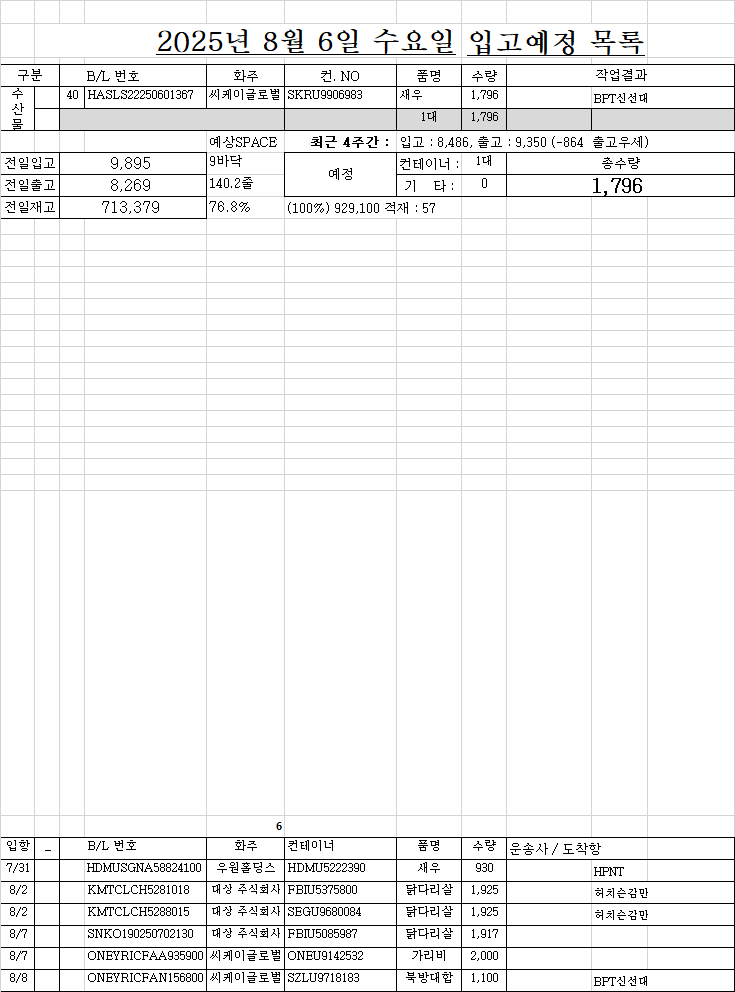
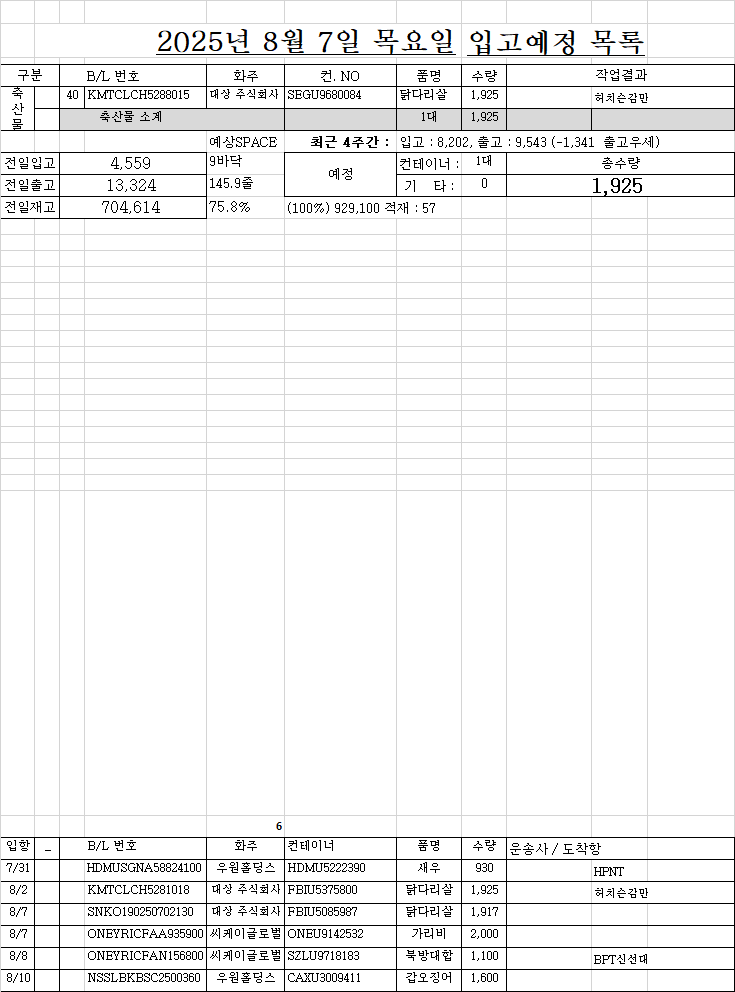
dfsfsdfsd

diff --git a/index.html b/index.html
@@ -475,7 +475,8 @@
 <div id="기타전체_관련자료none" class="d-none 모든검색">
   <div class="카테고리모음"><!--캔버스바디에 들어간다 .개별카테고리는 제한없음. .개별카테고리 안에는 div(div안에 h6을 넣어야됨) 1~3개 제한(각각 세로로 나열됨)-->
     <div class="개별카테고리" id="기타전체_기타"><!--id가 따지는데 _이후를 따옴. _ 없으면 전체 따옴 -->
-      <h6 class="canvas_div" title='_기타20250313_교육5종'>2023.03.13 : 상시근로자 사업장 1/4분기 산업안전보건교육 및 법정교육 시행의 건</h6>
+      <h6 class="canvas_div" title="_기타_대표자변경" >대표자 변경</h6>
+      <h6 class="canvas_div" title="_기타20250805_식물검역시행장신규신청" >수입식물류검역장소 신규신청</h6>
     </div>
     <div class="개별카테고리" id="기타전체_기타2"><!--id가 따지는데 _이후를 따옴. _ 없으면 전체 따옴 -->
       <h6 class="canvas_div" title=''>title를 불러옴, 이곳은 자유롭게 작성 (타이틀 또는 검색어)</h6>
@@ -483,11 +484,86 @@
       <h6 class="canvas_div" title=''>.개별카테고리 > div 3개(3칸으로 맞춤, 1칸써도 됨) 안에 h6(title 불러옴)</h6>
     </div>
     <div class="개별카테고리" id="기타전체_기타3"><!--id가 따지는데 _이후를 따옴. _ 없으면 전체 따옴 -->
-
+      <h6 class="canvas_div" title='_기타20250313_교육5종'>2023.03.13 : 상시근로자 사업장 1/4분기 산업안전보건교육 및 법정교육 시행의 건</h6>
     </div>
   </div>
 
   <!-- 카테고리 끝났으면 아래는 .카테고리모음 > .개별카테고리 > h6의 title 을 id로 가진 정보(불러올 정보) -->
+  <section id="_기타_대표자변경">
+    <div id="스크립트로ul추가"></div>
+    <div>
+      <h4>2021년9월29일부터 대표자변경</h4>
+      <h5>세관</h5>
+      <h6>보세구역 운영자 법인 등기사항 변경 통보서 (명판, 직인), 법인등기부등본, </h6>
+      <h6>특허장사본, 자율관리사본, 사업자등록증(참고용)</h6>
+      <h6>위임장과 인감증명서는 달라고 안했음.</h6>
+      <h6>2021.9.29. 방문신청하였고 10월4일 대체휴일이라서 </h6>
+      <h6>30일날 받으러오라고 해서받으러갔음.</h6>
+<br>
+      <h5>구청</h5>
+      <h6>축산물보관업(별관3층, 경제진흥과, 220-4471) 법인등기부등본, 위임장(당일본),  </h6>
+      <h6>인감증명서, 허가증 원본, 신청서(직인,명판). (직인,명판 지참 혹시모르니). 5000원, </h6>
+      <h6>3일후 연락오면 가지러 오라고함. 우편으로 받으려면 신청을 해야한다고 함.</h6>
+      <h6>식품보존업4417(환경위생과), 서류는 위와 동일, 수수료는 없음. </h6>
+      <h6>민원실에서 도장받아서 갖다주고 조금기다리니 등록증 새로 발급해줌. </h6>
+<br>
+      <h5>식물 20250806 회원가입 다시함 ycy2000 dongil3368!</h5>
+      <h6>농림축산검역본부 영남지역본부 전자민원 : 아이디 ycy20001, 비번 !good1974, </h6>
+      <h6>개인회원 (법인으로 신청하면 마지막에 에러난다)</h6>
+      <h6>20210930 전자민원으로 신청 : 첨부파일 : 법인등기부등본, 사업자등록증</h6>
+      <h6>김태형주무관 010-9515-1394,600-6227, 전산신청했더니 틀린부분 자세히 가르쳐주었다. </h6>
+      <h6>검역장소명이 동일냉장(주)로 전산신청서상에 자동으로 떠서 보냈는데</h6>
+      <h6>지정서에 동일냉장보세창고로 되어있어서 일치하지 않으면 </h6>
+      <h6>나중에 입간판 다 바꿔야하는 경우가 생긴다고 지적해주고 </h6>
+      <h6>내아이디 비번 가르쳐주고 직접 수정해주었다</h6>
+      <h6>문자로 신청, 접수, 승인 순서대로 처리결과가 문자로 수신됨.</h6>
+      <h6>직접 받으러감. (중앙동2번출구, 롯데백화점 근처)</h6>
+<br>
+      <h5>수산물품질관리원</h5>
+      <h6>생산.가공시설 등록 변경신청서. 법인등기부등본. </h6>
+      <h6>명판.직인.주민등록번호 풀.영문 이름.</h6>
+      <h6>우편으로 받았다.</h6>
+<br>
+      <h5>수입식품등보관업</h5>
+      <h6>아이디(기업은 등록번호) : 20160004247, </h6>
+      <h6>비번: !good1974, 로그인 - 우리회사안전관리 - 민원</h6>
+      <h6>영업등록사항 변경 : 영업등록증, 변경사항을 확인할수 있는 서류, 기타, 시설배치도</h6>
+      <h6>전산으로 변경이 잘 안되서 문의했더니 서류첨부까지 되면 </h6>
+      <h6>서류첨부해서 어떻게든 신청만하면 확인하고 연락하면서 신청받겠다고 함. (이렇게 했다)</h6>
+      <h6>안되면 팩스로도 진행이 가능하다고 함. 602-6201.</h6>
+      <h6>직원이 신청시 위임장 있어야 된다고 fax : 0502 604 7960, tel:602-6236</h6>
+      <h6>2022.05.23영업등록증 영문발행 되지 않는다고 함.(602-6236)</h6>
+      <h6>식품안전나라에 로그인해서 출력해서 쓰면된다고 함. 기존등록증은</h6>
+<br>
+      <h5>검역시행장</h5>
+      <h6>우편20211005.부산광역시 중구 충장대로6 한진 R&D센터2층 </h6>
+      <h6>농림축산검역본부 영남지역본부 축산물위생검역과 검역시행장 담당자앞</h6>
+      <h6>신청서,사업자등록증,지정서원본 (+법인등기부등본,축산물보관업허가증 사본)</h6>
+      <h6>우편으로 받았다.</h6>
+      <h6>식물,수품원 건물과 따로, 세관골목</h6>
+      <br><br><br><br><br><br><br><br><br><br>
+
+    </div>  
+  </section>
+
+  <section id="_기타20250805_식물검역시행장신규신청">
+    <div id="스크립트로ul추가"></div>
+    <h4 id="move3"  class="목차">3. 2025.08.05 수입식물류검역장소 신규 신청</h4>
+    <h5>A. 식물검역 온라인 민원시스템	(검색)</h5>
+    <img src="portal/images/문서연결_메모/식물검역사이트.png" alt="이미지없음">
+    <h5 class="li_들작" >※ 회원가입(본인인증) : 개인적으로 가입, 관할기관에 본부, 가입유형에 기업	</h5>
+    <h6 style="color:blueviolet">※ - 보세장치장부호가 조회되지 않는 경우에는 신청하시려는 담당기관에 보세장치장부호를 먼저 등록하신 후 신규 신청하시기 바랍니다.</h6>   
+    <h6>※ - 예시 화면의 보세장치장부호는 잘못된 정보이다. 03011597, 동일냉장(주)</h6>    
+    <h6>※ - '검역장소명'이 특허장의 '보세구역명칭'이라면 '동일냉장(주) 보세창고'라고 해야한다.</h6>    
+    <h6>★ 20250805신청후 다음날 현장점검시 잘못된 신청정보 바로잡으려고 하였고, 해당건 반려후 신규신청으로 다시 신청하였다.</h6>   
+    <img src="portal/images/문서연결_메모/식물검역장소신청내역.png" alt="이미지없음">
+    <h5 class="li_들작">※ 이동검사대, 조명, 온도보고, 창고본다.		</h5>
+    <h5 class="li_들작">※ 신청처리는 7일이지만 방문검사 협의(빠르면 다음날 올수 있음), 방문검사시 문제없으면 다음날에라도 입고가능		</h5>
+    <h5 class="li_들작">※ 2025.08.05 051)600-6227	</h5>   
+    <br><br><br><br><br><br><br><br><br><br>
+
+  </section>
+
   <section id="_기타20250313_교육5종">
     <div id="스크립트로ul추가"></div>
     <h4 id="move1" class="목차">&#9634; 2023.03.13 : 상시근로자 사업장 1/4분기 산업안전보건교육 및 법정교육 시행의 건</h4>
@@ -1786,21 +1862,15 @@
     <br>
     <img src="portal/images/문서연결_세관및유니패스/00_보세화물_01_보세화물_04_수산생물검사.png" alt="이미지없음">
       <br>
-    <h4 id="move3"  class="목차">3. 2025.08.05 수입식물류검역장소 신규 신청</h4>
-    <h5 class="li">A. 식물검역 온라인 민원시스템	</h5>
-    <h5 class="li_들작">※ 회원가입 : 개인적으로 가입, 관할기관에 본부, 가입유형에 기업	</h5>
-    <h5 class="li_들작">※ 이동검사대, 조명, 온도보고, 창고본다.		</h5>
-    <h5 class="li_들작">※ 신청처리는 7일이지만 방문검사 협의(빠르면 다음날 올수 있음), 방문검사시 문제없으면 다음날에라도 입고가능		</h5>
-    <h5 class="li_들작">※ 2025.08.05 051)600-6227	</h5>
+
     <br><br><br><br>
   </section>
 
-  
-  <div id="_01_보세화물_02_식물">
-    20250611 씨케이 염장와사비줄기 <br>
+  <section id="_01_보세화물_02_식물"><div id="스크립트로ul추가"></div>
+    <div>20250611 씨케이 염장와사비줄기 <br>
     명지우과장 : hs코드가 해당이 없었다... 한번도 식물검역신청 한 경우가 없다... <br>
-    <span style="font-weight: bold;">이것은 식물검역대상이 아닌것으로</span>
-  </div>
+    <span style="font-weight: bold;">이것은 식물검역대상이 아닌것으로</span></div>
+  </section>
 
   <section id="_01_보세화물_03_BL과DO등"><div id="스크립트로ul추가"></div>
     <h4 id="move1"  class="목차">1. 화물관리번호, 해상화물의 운송계약, 선사와 M/BL, 포딩과 H/BL, B/L 보는법</h4>

diff --git a/list.html b/list.html
@@ -125,35 +125,35 @@
 </div>
 <!-- ★★★★★★ 따로 빼 놔야한다. 복붙하면 첫칸 비어도 되는데, 여기서는 첫칸비우면 당겨진다. -->
 <!-- ★ 엑셀범위를 브라우저 textarea에 붙여넣으면 첫셀 비어도 제대로 되는데... HTML에 붙여놓은 자료는 처음셀이 비어있으면 당겨짐 -->
-<div class="d-none" id="원본text_리스트1부터w요약열까지">작성	면허	B/LNO.	화주	컨테이너NO.	품명	수량	반입NO.	입항일	구분	도착일	도착시간	구분	운.도VBA	08/05 화 16:33	화찰BL	화찰 선명	화물관리번호	화찰수량	화찰중량	화찰입항	리스트시트기준열	
-1	○	HASLS22250601367	씨케이글로벌	SKRU9906983	새우	1,796 	BPT신선대	8/4	1				BPT신선대		HASLS22250601367	HEUNG-A HOCHIMINH	25HASL1408I-2071-	1,796 	21,552.00 	2025.08.04	08/05 화 16:33	
+<div class="d-none" id="원본text_리스트1부터w요약열까지">작성	면허	B/LNO.	화주	컨테이너NO.	품명	수량	반입NO.	입항일	구분	도착일	도착시간	구분	운.도VBA	08/06 수 16:30	화찰BL	화찰 선명	화물관리번호	화찰수량	화찰중량	화찰입항	리스트시트기준열	
+1		KMTCLCH5288015	대상 주식회사	SEGU9680084	닭다리살	1,925 	허치슨감만	8/2	2	8/6	15:35		허치슨감만			KMTC JAKARTA					08/06 수 16:30	
 2		HDMUSGNA58824100	우원홀딩스	HDMU5222390	새우	930 	HPNT	7/31	1			20 	HPNT			HMM MANILA					조회정보	
 		KMTCLCH5281018	대상 주식회사	FBIU5375800	닭다리살	1,925 	허치슨감만	8/2	2				허치슨감만			KMTC JAKARTA					적재	57 
-		KMTCLCH5288015	대상 주식회사	SEGU9680084	닭다리살	1,925 	허치슨감만	8/2	2				허치슨감만			KMTC JAKARTA					4,617 	3줄
-		SNKO190250702130	대상 주식회사	FBIU5085987	닭다리살	1,917 		8/7	2												6,156 	4줄
-		ONEYRICFAA935900	씨케이글로벌	ONEU9142532	가리비	2,000 		8/7	1												7,695 	5줄
-		ONEYRICFAN156800	씨케이글로벌	SZLU9718183	북방대합	1,100 	BPT신선대	8/8	1				BPT신선대			KOTA GAYA					9,234 	6줄
-		NSSLBKBSC2500360	우원홀딩스	CAXU3009411	갑오징어	1,600 		8/10	1			20 				SKY CHALLENGE						
-		MEDUFJ489238	씨케이글로벌	SZLU9466986	주꾸미등	1,968 		8/11	1							MSC COLETTE III					출고/입고 4주간	
-		MEDUFJ489303	씨케이글로벌	SZLU9466986	북방대합	216 		8/11	1							MSC COLETTE III					1일 7/5	5일줄
-		ONEYSCLF17542500	씨케이글로벌	SZLU9714486	홍합살	2,400 		8/11	1							LIMA EXPRESS					9,350 	30.4
-		HLCULI3250649511	삼영수산	HLBU9158748	오징어	1,100 	 ._	8/13	1				 ._			VANTAGE					8,486 	27.6
-		HLCULI3250649511	삼영수산	UACU4769686	오징어	1,100 		8/13	1							VANTAGE					내국제외	
-		HLCULI3250649522	삼영수산	CAIU5653268	오징어	1,100 		8/14	1							VANTAGE					구분	대수
-		HLCULI3250649522	삼영수산	HLBU9353298	오징어	1,100 		8/14	1							VANTAGE					수산	18
-		HLCULI3250649522	삼영수산	TCLU1122721	오징어	1,100 		8/14	1							VANTAGE					축산	7
-		HLCULI3250649544	삼영수산	HLBU9066770	오징어	1,150 		8/15	1							VANTAGE					합계	25
-		HLCULI3250649544	삼영수산	HLBU9756586	오징어	1,150 		8/15	1							VANTAGE						
-		HLCULI3250649544	삼영수산	HLBU9472677	오징어	1,150 		8/15	1							VANTAGE					화주별 요약	
-		MEDUP3970274	세현	CRSU6022718	오징어	1,150 		8/19	1							MSC FAIRFIELD					화주	대수
-		MEDUP3970282	세현	TTNU8097699	오징어	1,150 		8/19	1							MSC FAIRFIELD					삼영수산	8
+		SNKO190250702130	대상 주식회사	FBIU5085987	닭다리살	1,917 		8/7	2												4,617 	3줄
+		ONEYRICFAA935900	씨케이글로벌	ONEU9142532	가리비	2,000 		8/7	1												6,156 	4줄
+		ONEYRICFAN156800	씨케이글로벌	SZLU9718183	북방대합	1,100 	BPT신선대	8/8	1				BPT신선대			KOTA GAYA					7,695 	5줄
+		NSSLBKBSC2500360	우원홀딩스	CAXU3009411	갑오징어	1,600 		8/10	1			20 				SKY CHALLENGE					9,234 	6줄
+		MEDUFJ489238	씨케이글로벌	SZLU9466986	주꾸미등	1,968 		8/11	1							MSC COLETTE III						
+		MEDUFJ489303	씨케이글로벌	SZLU9466986	북방대합	216 		8/11	1							MSC COLETTE III					출고/입고 4주간	
+		ONEYSCLF17542500	씨케이글로벌	SZLU9714486	홍합살	2,400 		8/11	1							LIMA EXPRESS					1일 7/5	5일줄
+		HLCULI3250649511	삼영수산	HLBU9158748	오징어	1,100 	 ._	8/13	1				 ._			VANTAGE					9,350 	30.4
+		HLCULI3250649511	삼영수산	UACU4769686	오징어	1,100 		8/13	1							VANTAGE					8,486 	27.6
+		HLCULI3250649522	삼영수산	CAIU5653268	오징어	1,100 		8/14	1							VANTAGE					내국제외	
+		HLCULI3250649522	삼영수산	HLBU9353298	오징어	1,100 		8/14	1							VANTAGE					구분	대수
+		HLCULI3250649522	삼영수산	TCLU1122721	오징어	1,100 		8/14	1							VANTAGE					수산	18
+		HLCULI3250649544	삼영수산	HLBU9066770	오징어	1,150 		8/15	1							VANTAGE					축산	8
+		HLCULI3250649544	삼영수산	HLBU9756586	오징어	1,150 		8/15	1							VANTAGE					합계	26
+		HLCULI3250649544	삼영수산	HLBU9472677	오징어	1,150 		8/15	1							VANTAGE						
+		MEDUP3970274	세현	CRSU6022718	오징어	1,150 		8/19	1							MSC FAIRFIELD					화주별 요약	
+		MEDUP3970282	세현	TTNU8097699	오징어	1,150 		8/19	1							MSC FAIRFIELD					화주	대수
+		ACD0837113	씨케이글로벌	CGMU5228399	홍합	2,000 		8/25	1												삼영수산	8
 		SAO500572503	대성무역	FBIU5241380	닭장각	1,568 		8/28	2												씨케이글로벌	6
+		MAEUJBS277649	대성무역	MNBU4213585	닭다리살	1,958 		9/6	2												대성무역	4
 		ONEYSAOF33796804	대성무역	ONEU9357700	닭장각	1,568 		9/11	2												대상 주식회사	3
-		ONEYSAOF33796812	대성무역	TLLU7007390	닭다리살	1,960 		9/11	2												대성무역	3
-		HDMUSAOA05612905	참트레이딩	HDMU5576006	닭장각	1,568 		9/11	2							NYK RUMINA					우원홀딩스	2
-																					세현	2
+		ONEYSAOF33796812	대성무역	TLLU7007390	닭다리살	1,960 		9/11	2												우원홀딩스	2
+		HDMUSAOA05612905	참트레이딩	HDMU5576006	닭장각	1,568 		9/11	2							NYK RUMINA					세현	2
 																					참트레이딩	1
-																					합계	25
+																					합계	26
 </div>
 <div class="d-none" id="원본text_입항관리도크부터도착항우측까지">도크	화주	컨테이너	작업순서	상세내용 참조		운송사	물품		06/05 목 16:15	B/L	도착항	상세내용
 </div>   

diff --git a/ycy최종.html b/ycy최종.html
@@ -146,7 +146,7 @@
 </div>
 <div id="버튼45오른쪽단독"  class="d-none" style="position: absolute;top:600px;left:523px;background-color: white;">
   <div class="설명_첫번째div">
-    <div class="설명_가로한줄"><span class="설명_왼쪽div"><button>0</button><button onclick="색칠하기('keep번호들')">색칠</button><span class="초코">keep</span>
+    <div class="설명_가로한줄"><span class="설명_왼쪽div"><button>0</button><button onclick="색칠하기('#keep번호들')">색칠</button><span class="초코">keep</span>
         <div class="d-inline-block" style="width:60px;padding:0px 5px;margin-left:-4px;margin-right:-5px;">
           <input class="form-check-input 체크input" type="checkbox" value="" id="keep변경">
           <label class="form-check-label" style="border:none">변경</label>
@@ -154,7 +154,7 @@
       </span>
       <span class="다섯개씩번갈아색칠" id="버튼45오른쪽단독_안에_keep"></span>
     </div>
-    <div class="설명_가로한줄"><span class="설명_왼쪽div"><button>0</button><button onclick="색칠하기('셑팅1번호들')">색칠</button><span>셑팅1</span>
+    <div class="설명_가로한줄"><span class="설명_왼쪽div"><button>0</button><button onclick="색칠하기('#셑팅1번호들')">색칠</button><span>셑팅1</span>
         <div class="d-inline-block" style="width:60px;padding:0px 5px;margin-left:-4px;margin-right:-5px;">
           <input class="form-check-input 체크input" type="checkbox" value="" id="셑팅1변경">
           <label class="form-check-label" style="border:none">변경</label>
@@ -162,7 +162,7 @@
       </span>
       <span class="다섯개씩번갈아색칠" id="버튼45오른쪽단독_안에_셑팅1_번호들"></span>
     </div>
-    <div class="설명_가로한줄"><span class="설명_왼쪽div"><button>0</button><button onclick="색칠하기('셑팅2번호들')">색칠</button><span>셑팅2</span>
+    <div class="설명_가로한줄"><span class="설명_왼쪽div"><button>0</button><button onclick="색칠하기('#셑팅2번호들')">색칠</button><span>셑팅2</span>
         <div class="d-inline-block" style="width:60px;padding:0px 5px;margin-left:-4px;margin-right:-5px;">
           <input class="form-check-input 체크input" type="checkbox" value="" id="셑팅2변경">
           <label class="form-check-label" style="border:none">변경</label>
@@ -170,7 +170,7 @@
       </span>
       <span class="다섯개씩번갈아색칠" id="버튼45오른쪽단독_안에_셑팅2_번호들"></span>
     </div>
-    <div class="설명_가로한줄"><span class="설명_왼쪽div"><button>0</button><button onclick="색칠하기('셑팅3번호들')">색칠</button><span>셑팅3</span>
+    <div class="설명_가로한줄"><span class="설명_왼쪽div"><button>0</button><button onclick="색칠하기('#셑팅3번호들')">색칠</button><span>셑팅3</span>
         <div class="d-inline-block" style="width:60px;padding:0px 5px;margin-left:-4px;margin-right:-5px;">
           <input class="form-check-input 체크input" type="checkbox" value="" id="셑팅3변경">
           <label class="form-check-label" style="border:none">변경</label>
@@ -179,7 +179,7 @@
       <span class="다섯개씩번갈아색칠" id="버튼45오른쪽단독_안에_셑팅3_번호들">
       </span>
     </div>
-    <div class="설명_가로한줄"><span class="설명_왼쪽div"><button>0</button><button onclick="색칠하기('클릭번호들')">색칠</button><span style="background-color:chocolate;">클릭번호들</span>
+    <div class="설명_가로한줄"><span class="설명_왼쪽div"><button>0</button><button onclick="색칠하기('#클릭번호들')">색칠</button><span style="background-color:chocolate;">클릭번호들</span>
         <div class="d-inline-block" style="width:60px;padding:0px 5px;margin-left:-4px;margin-right:-5px;">
           <input class="form-check-input 체크input" type="checkbox" value="" id="클릭번호들변경">
           <label class="form-check-label" style="border:none">변경</label>
@@ -580,11 +580,6 @@
       <div id="피해서_선택번호"></div>
       <div id="피해서_노랑"></div>
       <div id="피해서_흰색"></div>
-      <div id="keep번호들_변수포함"></div><div id="keep번호들"></div>
-      <div id="셑팅1번호들_변수포함"></div><div id="셑팅1번호들"></div>
-      <div id="셑팅2번호들_변수포함"></div><div id="셑팅2번호들"></div>
-      <div id="셑팅3번호들_변수포함"></div><div id="셑팅3번호들"></div>
-      <div id="클릭번호들_변수포함"></div><div id="클릭번호들"></div>
     </div>
   </div>
 </div>

diff --git a/portal/assets/js/ycy최종.js b/portal/assets/js/ycy최종.js
@@ -31,26 +31,69 @@ function 연습() {
   var 변수 = document.querySelector('#버튼45오른쪽단독');
   변수.setAttribute('class', 'd d d d d d d d')
 }
-function 색칠하기(전달문자) {
-  console.log('색칠하기 : ' + 전달문자)
-  document.querySelector('#클릭번호들_변수포함').innerHTML = 전달문자;
-  var 변수 = ['keep_input/#keep번호들_변수포함', '셑팅1_input/#셑팅1번호들_변수포함', 
-              '셑팅2_input/#셑팅2번호들_변수포함', '셑팅3_input/#셑팅3번호들_변수포함'];
-  var 체크index='';
+function 색칠하기(색칠아이디) {
+  console.log('선택 : ' + 색칠아이디)
+  var 색칠할번호들=document.querySelector(색칠아이디).innerHTML.split(',');
+  console.log(색칠할번호들)
+}
+function 색칠할번호들_clear() {
+  var 변수 = ['#keep번호들_변수포함/#keep번호들', '#셑팅1번호들_변수포함/#셑팅1번호들', 
+              '#셑팅2번호들_변수포함/#셑팅2번호들', '#셑팅3번호들_변수포함/#셑팅3번호들',
+              '#클릭번호들_변수포함/#클릭번호들'];
   변수.forEach((문자열, 인덱스) => {
-    if (document.querySelector('#' + 문자열.split('/')[0]).checked) { 체크index = 인덱스 }
+    document.querySelector(문자열.split('/')[0]).innerHTML='';
+    document.querySelector(문자열.split('/')[1]).innerHTML='';
   });
-  var 기록할곳=document.querySelector(변수[체크index].split('/')[1]);
+}
+function 색칠셑팅(색칠문자열) {
+  console.log('색칠셑팅 : ' + 색칠문자열)
+  document.querySelector('#클릭번호들_변수포함').innerHTML = 색칠문자열;
+  //[0]색칠할번호들 정하기, [1]변경여부 판단, [2]변수포함 번호, [3]번호로 변환된곳
+  var 변수 = ['#keep_input/#keep변경/#keep번호들_변수포함/#keep번호들', '#셑팅1_input/#셑팅1변경/#셑팅1번호들_변수포함/#셑팅1번호들', 
+              '#셑팅2_input/#셑팅2변경/#셑팅2번호들_변수포함/#셑팅2번호들', '#셑팅3_input/#셑팅3변경/#셑팅3번호들_변수포함/#셑팅3번호들',
+              '_/#클릭번호들변경/#클릭번호들_변수포함/#클릭번호들'];
+  var 체크index='';
+  //색칠할번호들 정하기
+  변수.forEach((문자열, 인덱스) => {if (document.querySelector(문자열.split('/')[0])?.checked) {체크index = 인덱스 ;};});
+  //색칠할곳으로선택된 곳이면,, 아니면,,
+  var 선택한곳변수형식=document.querySelector(변수[체크index].split('/')[2]);
   if (document.querySelector('#누적').checked) {
-        if (기록할곳.innerHTML.split(',').includes(전달문자)) {
+        if (선택한곳변수형식.innerHTML.split(',').includes(색칠문자열)) {
           //같은게 있으면 안쓴다
         } else {
-          if (기록할곳.innerHTML=='') 기록할곳.innerHTML=전달문자;
-          else 기록할곳.innerHTML+=','+전달문자;
+          if (선택한곳변수형식.innerHTML=='') 선택한곳변수형식.innerHTML=색칠문자열;
+          else 선택한곳변수형식.innerHTML+=','+색칠문자열;
         }
     } else { //누적체크 해제일때
-      기록할곳.innerHTML=전달문자;
+      선택한곳변수형식.innerHTML=색칠문자열;
   }
+  // 변경체크 확인하는데 : 선택한곳은 상관없이 변경하고 나머지 변경체크한곳은 변경한다.
+  var 풀기완료문자열;
+  var 숫자로푼요소;
+  변수.forEach((문자열, 인덱스) => {
+    풀기완료문자열='';
+    숫자로푼요소=document.querySelector(문자열.split('/')[3]);
+    if (document.querySelector(문자열.split('/')[1]).checked || 문자열.split('/')[2]==변수[체크index].split('/')[2]) {
+      //변경
+      document.querySelector(문자열.split('/')[3]).innerHTML='';//초기화 시켜둔다.
+      document.querySelector(문자열.split('/')[2]).innerHTML.split(',').forEach ( 숫자또는문자 => {
+
+        console.log(문자열.split('/')[3]);
+
+
+
+      });
+
+
+
+
+
+
+
+    }
+  });
+
+  색칠문자열=''; //초기화
 }
 
 function 분석자료_삼십회표3종_작성_미완성() {
@@ -1008,7 +1051,7 @@ function 리스너_바디_click(e) {
       e.target.classList.add('선택');
       색칠id = '#분석자료변수'; 색칠class = ' .공통변수_30주' + e.target.innerHTML + '출';
       색칠문자열 = 색칠id + 색칠class;
-      색칠하기(색칠문자열);
+      색칠셑팅(색칠문자열);
     }
   }
   if (e.target.parentElement.id == '삼십회횟수기록') {
